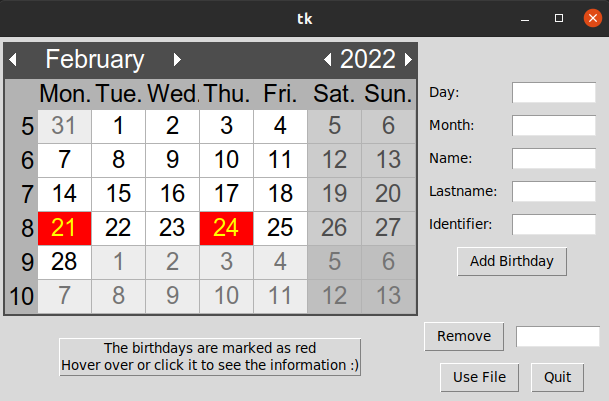
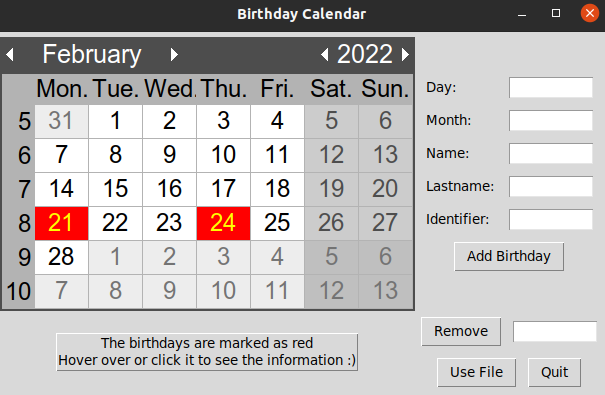
Change name window and add example

diff --git a/birthday_calendar/app_shell.py b/birthday_calendar/app_shell.py
@@ -12,7 +12,8 @@ class AppShell:
     FIELDS = ["Day", "Month", "Name", "Lastname", "Identifier"]
 
     def __init__(self):
-        self.root = tk.Tk(screenName="Birthday Calendar")
+        self.root = tk.Tk()
+        self.root.title("Birthday Calendar")
         self.elements = {}
 
         self.window = tk.Frame(self.root)
